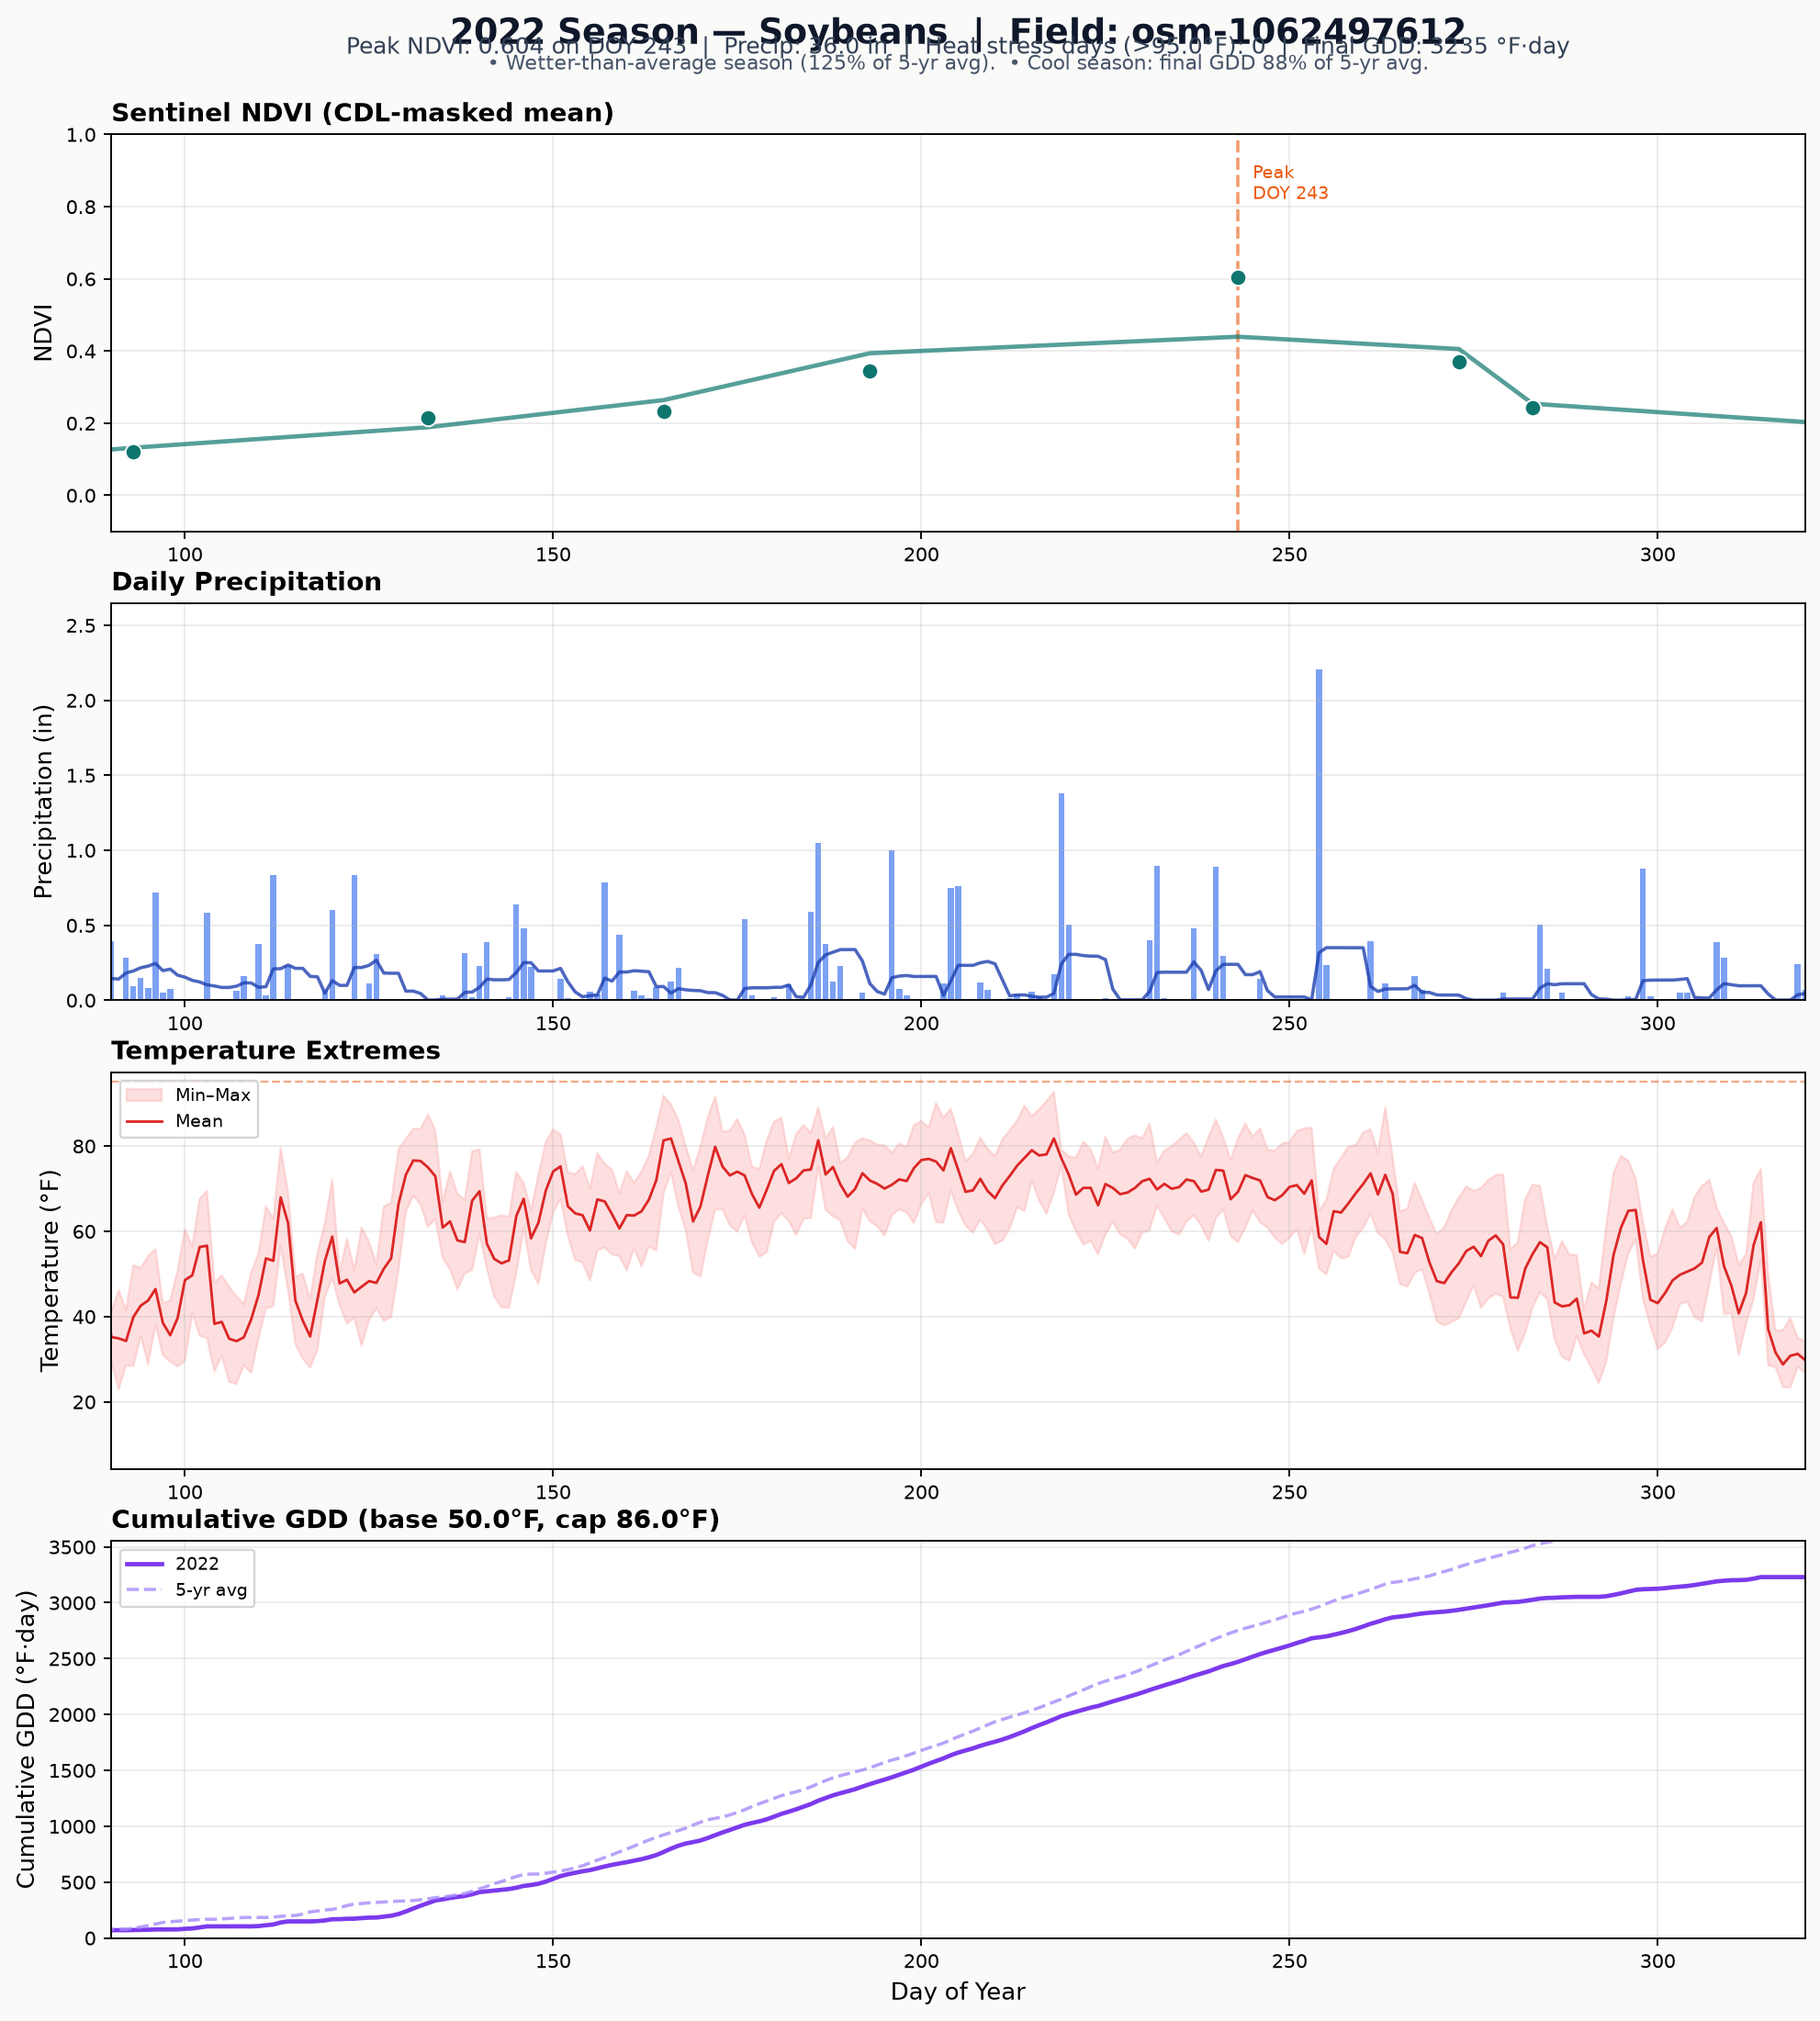
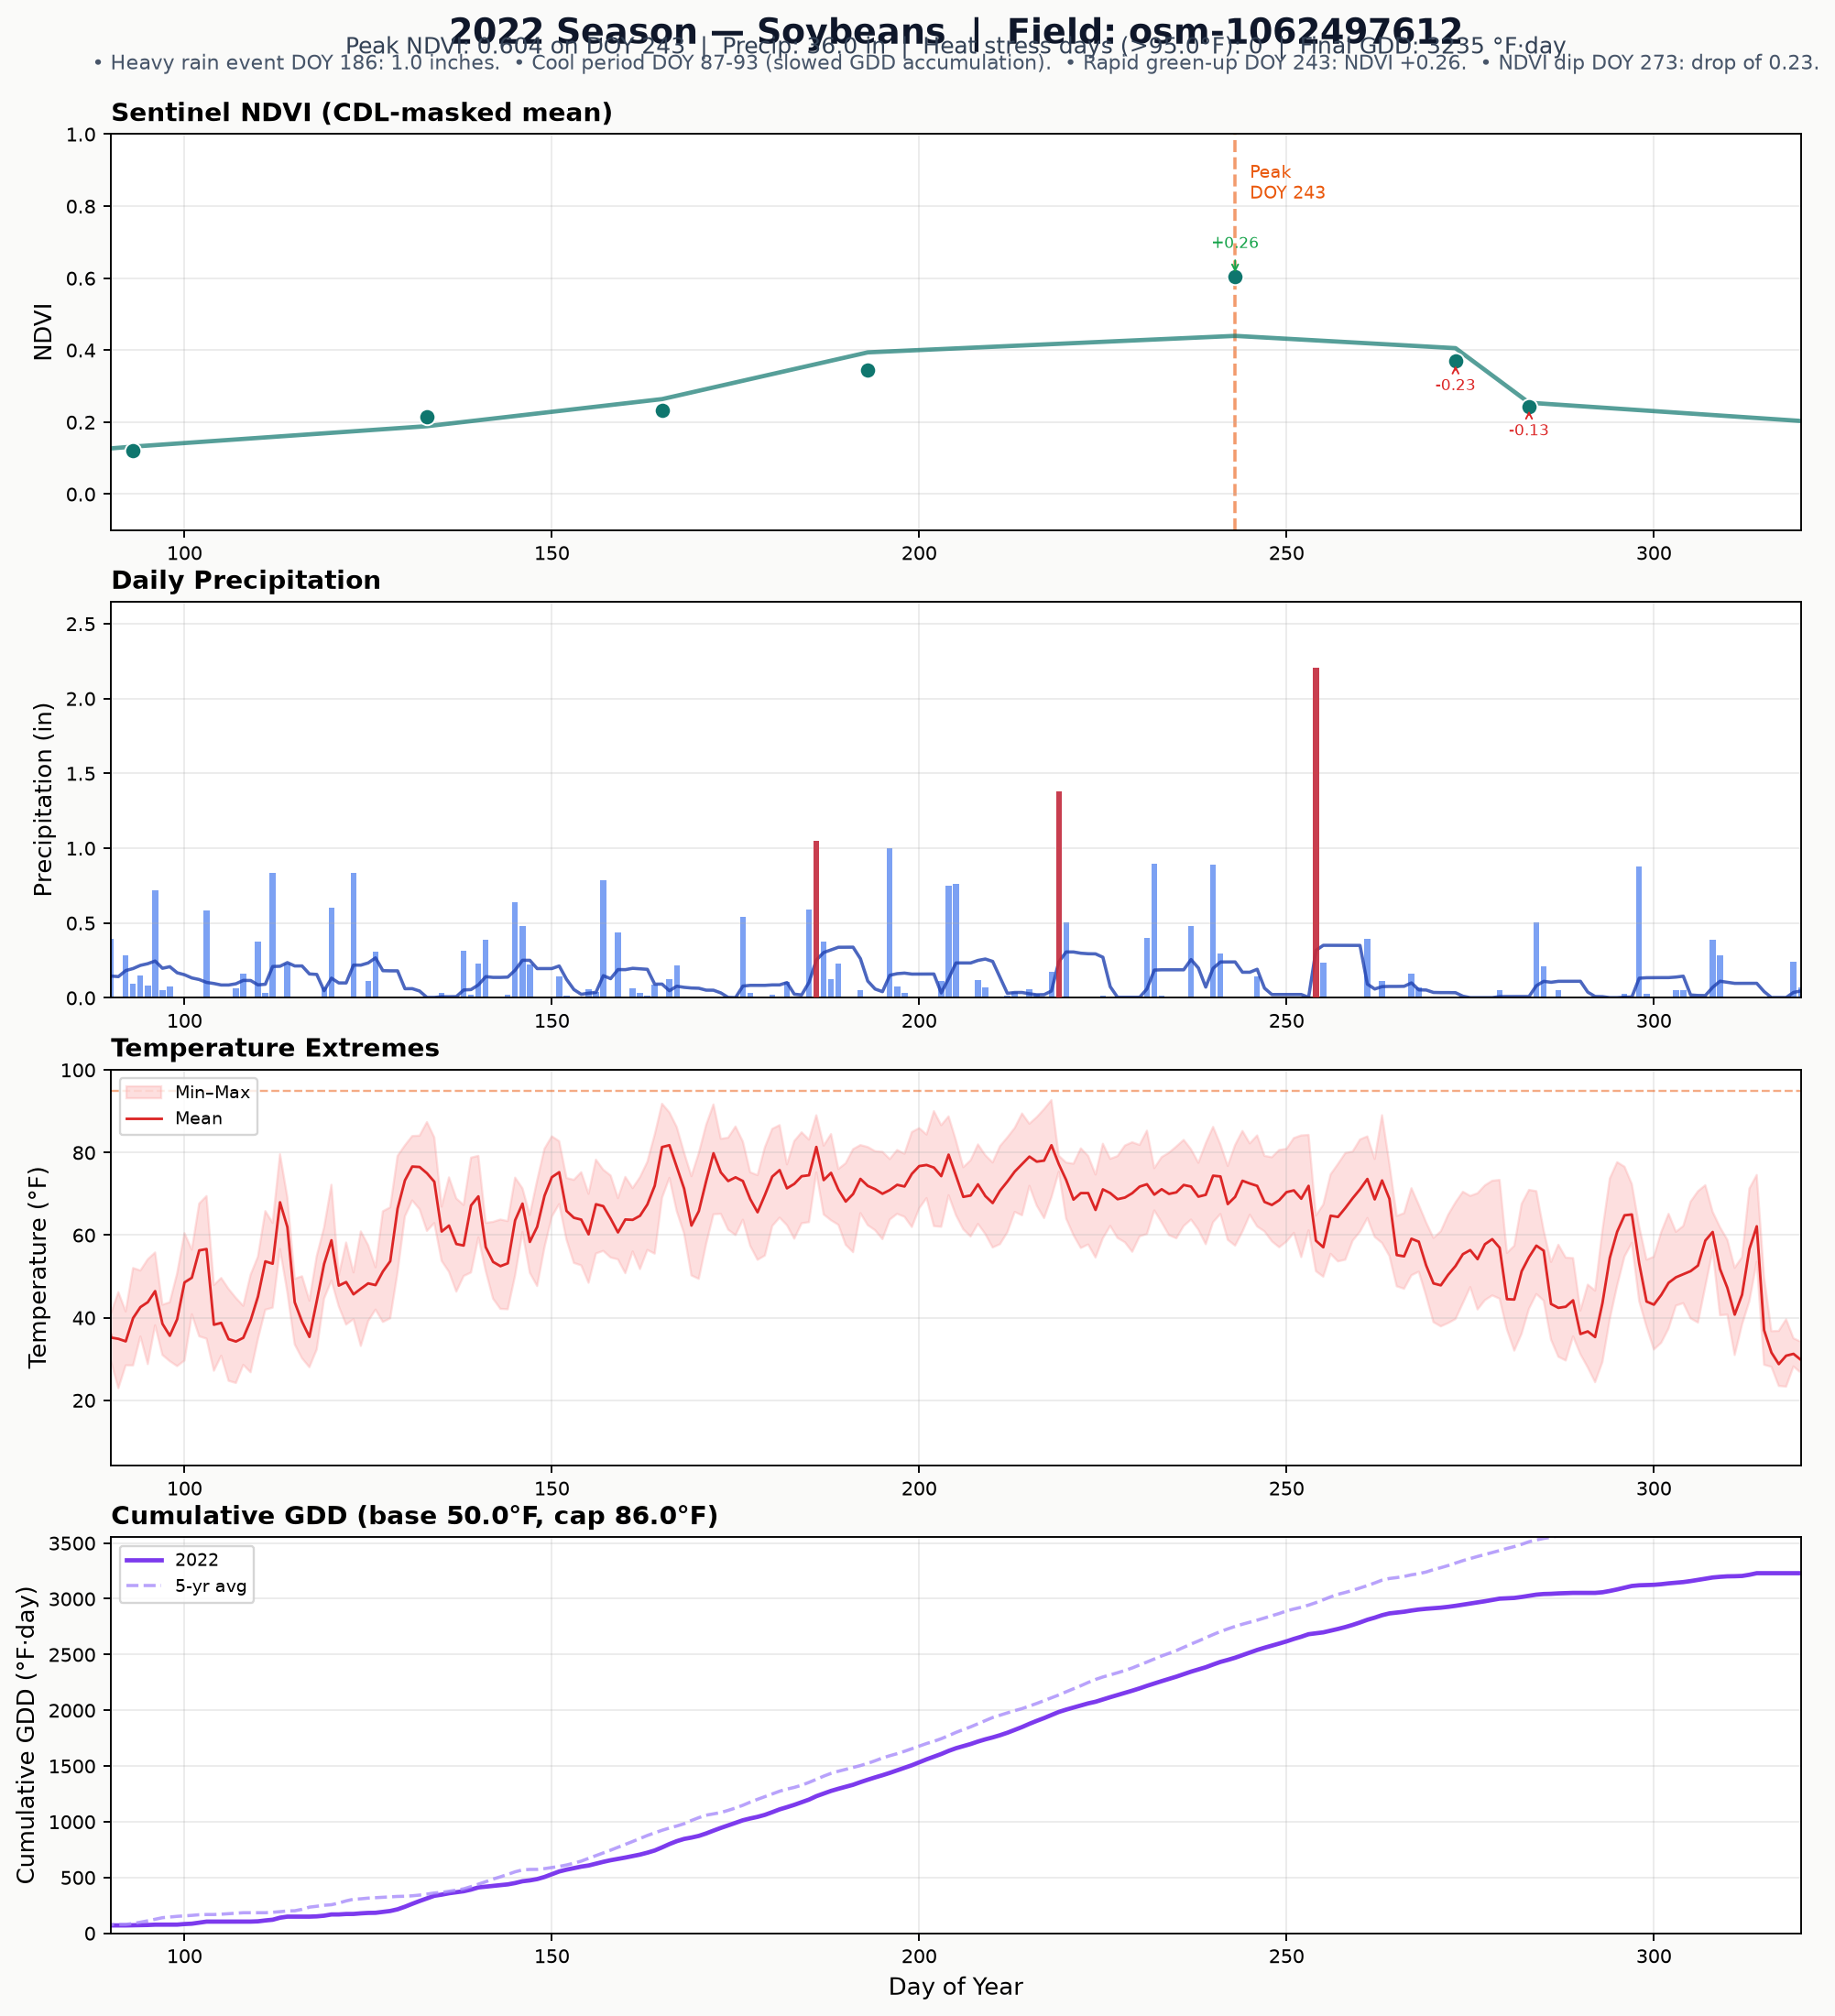
feat: enhance dashboard with event detection and crop-specific captions
- Add event detection module:
  * Heavy rain (>1 inch/day)
  * Heat waves (3+ consecutive days >95°F)
  * Cool periods (GDD below rolling average)
  * NDVI surges (rapid green-up >0.15)
  * NDVI dips (sudden drop >0.10)
- Add crop-specific interpretation using strategy guides:
  * Soybeans: R1-R5 window evaluation, pod fill moisture
  * Corn: VT/R1 pollination window, R3 grain fill
- Add visual annotations:
  * Red bars for heavy rain on precip panel
  * Red shaded bands for heat waves on temp panel
  * Green/red arrows for NDVI surges/dips
- Update README with event detection documentation
- Regenerate example dashboard for 2022 Soybeans

diff --git a/my-farm-field-season-dashboard/scripts/generate_field_season_dashboard.py b/my-farm-field-season-dashboard/scripts/generate_field_season_dashboard.py
@@ -322,6 +322,170 @@ def _build_reference_stats(
 
 
 # ---------------------------------------------------------------------------
+# Event detection for captions
+# ---------------------------------------------------------------------------
+def _detect_heavy_rain(weather_df: pd.DataFrame, threshold: float = 1.0) -> list[dict[str, Any]]:
+    """Detect heavy rain days (> threshold inches in 24h)."""
+    heavy = weather_df[weather_df["PRECTOTCORR_in"] > threshold].copy()
+    events = []
+    for _, row in heavy.iterrows():
+        events.append({
+            "doy": int(row["doy"]),
+            "date": str(row["date"].date()),
+            "amount_in": float(row["PRECTOTCORR_in"]),
+            "type": "heavy_rain",
+        })
+    return events
+
+
+def _detect_heat_waves(weather_df: pd.DataFrame, threshold: float = 95.0, min_length: int = 3) -> list[dict[str, Any]]:
+    """Detect heat waves: consecutive days above threshold."""
+    hot = weather_df["T2M_MAX"] > threshold
+    events: list[dict[str, Any]] = []
+    start = None
+    for idx, is_hot in enumerate(hot):
+        if is_hot and start is None:
+            start = idx
+        elif not is_hot and start is not None:
+            length = idx - start
+            if length >= min_length:
+                events.append({
+                    "start_doy": int(weather_df.iloc[start]["doy"]),
+                    "end_doy": int(weather_df.iloc[idx - 1]["doy"]),
+                    "length": length,
+                    "type": "heat_wave",
+                })
+            start = None
+    if start is not None:
+        length = len(hot) - start
+        if length >= min_length:
+            events.append({
+                "start_doy": int(weather_df.iloc[start]["doy"]),
+                "end_doy": int(weather_df.iloc[-1]["doy"]),
+                "length": length,
+                "type": "heat_wave",
+            })
+    return events
+
+
+def _detect_cool_periods(weather_df: pd.DataFrame, gdd_col: str = "gdd", window: int = 7, ratio: float = 0.5) -> list[dict[str, Any]]:
+    """Detect cool periods where 7-day GDD is below ratio of rolling average."""
+    weather_df = weather_df.copy()
+    weather_df["gdd_roll7"] = weather_df[gdd_col].rolling(window=window, min_periods=1).mean()
+    weather_df["gdd_roll30"] = weather_df[gdd_col].rolling(window=30, min_periods=1).mean()
+    cool = weather_df["gdd_roll7"] < (weather_df["gdd_roll30"] * ratio)
+    events: list[dict[str, Any]] = []
+    start = None
+    for idx, is_cool in enumerate(cool):
+        if is_cool and start is None:
+            start = idx
+        elif not is_cool and start is not None:
+            length = idx - start
+            if length >= window:
+                events.append({
+                    "start_doy": int(weather_df.iloc[start]["doy"]),
+                    "end_doy": int(weather_df.iloc[idx - 1]["doy"]),
+                    "length": length,
+                    "type": "cool_period",
+                })
+            start = None
+    return events
+
+
+def _detect_ndvi_dips(scenes_df: pd.DataFrame, dip_threshold: float = 0.1) -> list[dict[str, Any]]:
+    """Detect NDVI dips between consecutive scenes."""
+    if len(scenes_df) < 2:
+        return []
+    events = []
+    sorted_df = scenes_df.sort_values("doy").reset_index(drop=True)
+    for i in range(1, len(sorted_df)):
+        prev = sorted_df.iloc[i - 1]
+        curr = sorted_df.iloc[i]
+        drop = prev["mean_ndvi"] - curr["mean_ndvi"]
+        if drop >= dip_threshold:
+            events.append({
+                "doy": int(curr["doy"]),
+                "drop": float(drop),
+                "from_ndvi": float(prev["mean_ndvi"]),
+                "to_ndvi": float(curr["mean_ndvi"]),
+                "type": "ndvi_dip",
+            })
+    return events
+
+
+def _detect_ndvi_surge(scenes_df: pd.DataFrame, surge_threshold: float = 0.15) -> list[dict[str, Any]]:
+    """Detect rapid NDVI increases between consecutive scenes."""
+    if len(scenes_df) < 2:
+        return []
+    events = []
+    sorted_df = scenes_df.sort_values("doy").reset_index(drop=True)
+    for i in range(1, len(sorted_df)):
+        prev = sorted_df.iloc[i - 1]
+        curr = sorted_df.iloc[i]
+        gain = curr["mean_ndvi"] - prev["mean_ndvi"]
+        if gain >= surge_threshold:
+            events.append({
+                "doy": int(curr["doy"]),
+                "gain": float(gain),
+                "from_ndvi": float(prev["mean_ndvi"]),
+                "to_ndvi": float(curr["mean_ndvi"]),
+                "type": "ndvi_surge",
+            })
+    return events
+
+
+def _build_crop_specific_captions(crop_name: str, events: list[dict[str, Any]], weather_df: pd.DataFrame, scenes_df: pd.DataFrame) -> list[str]:
+    """Generate crop-specific heuristic captions using strategy guide terminology."""
+    captions: list[str] = []
+    
+    if crop_name == "Soybeans":
+        # R1-R5 window: roughly DOY 180-250 for Midwest soybeans
+        r1_r5_mask = weather_df["doy"].between(180, 250)
+        r1_r5_weather = weather_df[r1_r5_mask]
+        
+        if not r1_r5_weather.empty:
+            r1_r5_precip = r1_r5_weather["PRECTOTCORR_in"].sum()
+            r1_r5_heat = (r1_r5_weather["T2M_MAX"] > 95).sum()
+            
+            if r1_r5_heat == 0:
+                captions.append("No heat stress during R1-R5 reproductive window — favorable for pod set and seed fill.")
+            else:
+                captions.append(f"{r1_r5_heat} heat-stress day(s) during R1-R5; monitor pod abortion risk.")
+            
+            if r1_r5_precip < 5.0:
+                captions.append(f"Dry R1-R5 window ({r1_r5_precip:.1f} in); watch for moisture stress during pod fill.")
+        
+        # Check NDVI peak timing for soybeans
+        if not scenes_df.empty:
+            peak_idx = scenes_df["mean_ndvi"].idxmax()
+            peak_doy = int(scenes_df.loc[peak_idx, "doy"])
+            if 220 <= peak_doy <= 260:
+                captions.append(f"Peak NDVI at DOY {peak_doy} aligns with typical soybean reproductive canopy.")
+    
+    elif crop_name == "Corn":
+        # VT/R1 pollination window: roughly DOY 190-210 for Midwest corn
+        pollination_mask = weather_df["doy"].between(190, 210)
+        poll_weather = weather_df[pollination_mask]
+        
+        if not poll_weather.empty:
+            poll_heat = (poll_weather["T2M_MAX"] > 95).sum()
+            if poll_heat == 0:
+                captions.append("Pollination window (VT/R1) stayed below heat-stress threshold — good kernel set potential.")
+            else:
+                captions.append(f"{poll_heat} heat-stress day(s) during pollination; potential kernel set risk.")
+        
+        # R3 milk stage: roughly DOY 210-230
+        r3_mask = weather_df["doy"].between(210, 230)
+        r3_weather = weather_df[r3_mask]
+        if not r3_weather.empty:
+            r3_precip = r3_weather["PRECTOTCORR_in"].sum()
+            if r3_precip < 3.0:
+                captions.append(f"Limited moisture during grain fill (R3); yield potential may be capped.")
+    
+    return captions
+
+
+# ---------------------------------------------------------------------------
 # Dashboard rendering
 # ---------------------------------------------------------------------------
 def _smooth_loess(x: np.ndarray, y: np.ndarray, frac: float = 0.3) -> np.ndarray:
@@ -374,15 +538,50 @@ def _render_dashboard(
     stats_line += f"  |  Final GDD: {final_gdd:.0f} °F·day"
     lines.append(stats_line)
 
-    # Heuristic callouts vs 5-year reference
+    # Detect events
+    heavy_rain = _detect_heavy_rain(weather_df)
+    heat_waves = _detect_heat_waves(weather_df, threshold=args.heat_stress_threshold)
+    cool_periods = _detect_cool_periods(weather_df)
+    ndvi_dips = _detect_ndvi_dips(scenes_df)
+    ndvi_surges = _detect_ndvi_surge(scenes_df)
+    crop_captions = _build_crop_specific_captions(crop_name, [], weather_df, scenes_df)
+    
+    # Heuristic callouts vs 5-year reference + events
     callouts: list[str] = []
+    
+    # Event-based callouts (prioritized)
+    if heat_waves:
+        hw = heat_waves[0]
+        callouts.append(f"• Heat wave DOY {hw['start_doy']}-{hw['end_doy']} ({hw['length']} days >{args.heat_stress_threshold}°F).")
+    
+    if heavy_rain:
+        hr = heavy_rain[0]
+        callouts.append(f"• Heavy rain event DOY {hr['doy']}: {hr['amount_in']:.1f} inches.")
+    
+    if cool_periods:
+        cp = cool_periods[0]
+        callouts.append(f"• Cool period DOY {cp['start_doy']}-{cp['end_doy']} (slowed GDD accumulation).")
+    
+    if ndvi_surges:
+        ns = ndvi_surges[0]
+        callouts.append(f"• Rapid green-up DOY {ns['doy']}: NDVI +{ns['gain']:.2f}.")
+    
+    if ndvi_dips:
+        nd = ndvi_dips[0]
+        callouts.append(f"• NDVI dip DOY {nd['doy']}: drop of {nd['drop']:.2f}.")
+    
+    # Crop-specific captions
+    for caption in crop_captions:
+        callouts.append(f"• {caption}")
+    
+    # Reference comparison callouts
     if ref_stats:
         if peak_doy and ref_stats.get("avg_peak_ndvi_doy"):
             delta = peak_doy - ref_stats["avg_peak_ndvi_doy"]
             if abs(delta) > 7:
                 direction = "later" if delta > 0 else "earlier"
                 callouts.append(
-                    f"• Peak NDVI arrived ~{abs(delta)} days {direction} than the 5-yr avg (DOY {ref_stats['avg_peak_ndvi_doy']})."
+                    f"• Peak NDVI ~{abs(delta)} days {direction} than 5-yr avg."
                 )
         if ref_stats.get("avg_season_precip_in"):
             ratio = season_precip / ref_stats["avg_season_precip_in"]
@@ -400,10 +599,8 @@ def _render_dashboard(
                 callouts.append(f"• Cool season: final GDD {ratio_gdd:.0%} of 5-yr avg.")
             elif ratio_gdd > 1.1:
                 callouts.append(f"• Warm season: final GDD {ratio_gdd:.0%} of 5-yr avg.")
-    else:
-        callouts.append("• 5-year reference data unavailable for comparison.")
-
-    lines.append("  ".join(callouts) if callouts else "")
+    
+    lines.append("  ".join(callouts[:4]) if callouts else "")  # Limit to 4 callouts for space
 
     title_ax.text(
         0.5, 0.95, lines[0], transform=title_ax.transAxes,
@@ -443,6 +640,24 @@ def _render_dashboard(
                 peak_doy + 2, 0.92, f"Peak\nDOY {peak_doy}",
                 fontsize=8, color="#ea580c", va="top",
             )
+        
+        # Annotate NDVI surges and dips
+        for surge in ndvi_surges:
+            ax_ndvi.annotate(
+                f"+{surge['gain']:.2f}",
+                xy=(surge["doy"], surge["to_ndvi"]),
+                xytext=(surge["doy"], surge["to_ndvi"] + 0.08),
+                fontsize=7, color="#16a34a", ha="center",
+                arrowprops=dict(arrowstyle="->", color="#16a34a", lw=0.8),
+            )
+        for dip in ndvi_dips:
+            ax_ndvi.annotate(
+                f"-{dip['drop']:.2f}",
+                xy=(dip["doy"], dip["to_ndvi"]),
+                xytext=(dip["doy"], dip["to_ndvi"] - 0.08),
+                fontsize=7, color="#dc2626", ha="center",
+                arrowprops=dict(arrowstyle="->", color="#dc2626", lw=0.8),
+            )
     else:
         ax_ndvi.text(0.5, 0.5, "No Sentinel NDVI scenes available", ha="center", va="center",
                      transform=ax_ndvi.transAxes, color="#64748b", fontsize=10)
@@ -461,6 +676,10 @@ def _render_dashboard(
         ax_precip.bar(weather_df["doy"], weather_df["PRECTOTCORR_in"], color="#2563eb", alpha=0.6, width=0.8)
         roll7 = weather_df.set_index("doy")["PRECTOTCORR_in"].rolling(7, min_periods=1).mean().reindex(range(60, 321), fill_value=0)
         ax_precip.plot(roll7.index, roll7.values, color="#1e40af", linewidth=1.5, alpha=0.8)
+        
+        # Highlight heavy rain days
+        for hr in heavy_rain:
+            ax_precip.bar(hr["doy"], hr["amount_in"], color="#dc2626", alpha=0.8, width=0.8, zorder=3)
     else:
         ax_precip.text(0.5, 0.5, "No weather data", ha="center", va="center",
                        transform=ax_precip.transAxes, color="#64748b", fontsize=10)
@@ -482,7 +701,17 @@ def _render_dashboard(
         ax_temp.fill_between(doy_range, tmin.values, tmax.values, color="#fca5a5", alpha=0.35, label="Min–Max")
         ax_temp.plot(doy_range, tmean.values, color="#dc2626", linewidth=1.2, label="Mean")
         ax_temp.axhline(y=args.heat_stress_threshold, color="#ea580c", linestyle="--", alpha=0.5, linewidth=1.0)
-        ax_temp.set_ylim(tmin.min() * 0.95, tmax.max() * 1.05)
+        
+        # Shade heat wave periods
+        for hw in heat_waves:
+            ax_temp.axvspan(hw["start_doy"], hw["end_doy"], alpha=0.15, color="#dc2626", zorder=0)
+            ax_temp.text(
+                hw["start_doy"], tmax.max() * 1.02,
+                f"Heat wave\nDOY {hw['start_doy']}-{hw['end_doy']}",
+                fontsize=7, color="#dc2626", ha="left", va="top",
+            )
+        
+        ax_temp.set_ylim(tmin.min() * 0.95, tmax.max() * 1.08)
         ax_temp.legend(loc="upper left", fontsize=8)
     else:
         ax_temp.text(0.5, 0.5, "No weather data", ha="center", va="center",

diff --git a/my-farm-field-season-dashboard/README.md b/my-farm-field-season-dashboard/README.md
@@ -123,8 +123,36 @@ The dashboard includes a title block with:
 - Heat-stress day count (days > 95°F)
 - Final cumulative GDD
 
-When 5 years of historical data are available for the same field, heuristic
-captions are generated automatically:
+### Event detection
+
+The script automatically detects and highlights:
+
+| Event | Detection Rule | Visual Indicator |
+|-------|---------------|------------------|
+| **Heavy rain** | >1 inch in 24 hours | Red bars on precipitation panel |
+| **Heat waves** | 3+ consecutive days >95°F | Red shaded bands on temperature panel |
+| **Cool periods** | 7+ days with GDD <50% of rolling average | Reported in caption |
+| **NDVI surges** | Rapid green-up (>0.15 NDVI gain) | Green arrow annotations on NDVI panel |
+| **NDVI dips** | Sudden drop (>0.10 NDVI loss) | Red arrow annotations on NDVI panel |
+
+### Crop-specific interpretation
+
+Using corn/soybean strategy guide terminology:
+
+**For soybeans:**
+- Evaluates R1-R5 reproductive window conditions (DOY 180–250)
+- Flags heat stress during pod set and seed fill
+- Notes moisture adequacy during pod fill
+- Compares peak NDVI timing to typical soybean canopy
+
+**For corn:**
+- Evaluates VT/R1 pollination window (DOY 190–210)
+- Flags heat stress during kernel set
+- Notes moisture during R3 grain fill
+
+### Reference comparison
+
+When 5 years of historical data are available:
 
 - "Peak NDVI arrived ~X days later than the 5-yr avg"
 - "Drier-than-average season (Y% of 5-yr avg)"